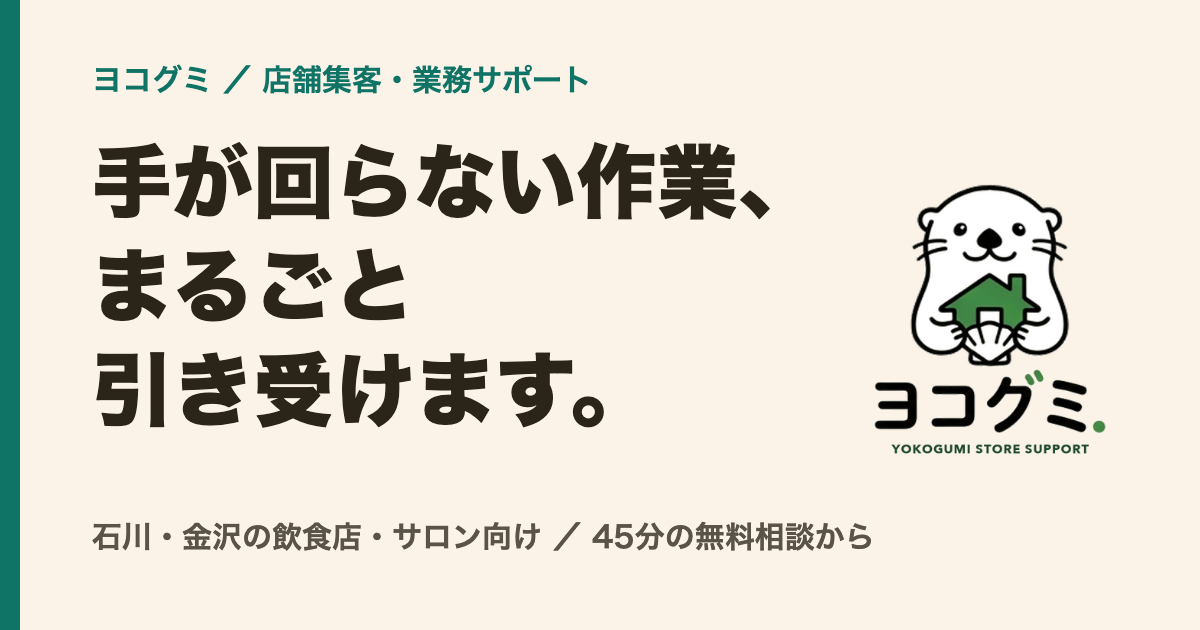
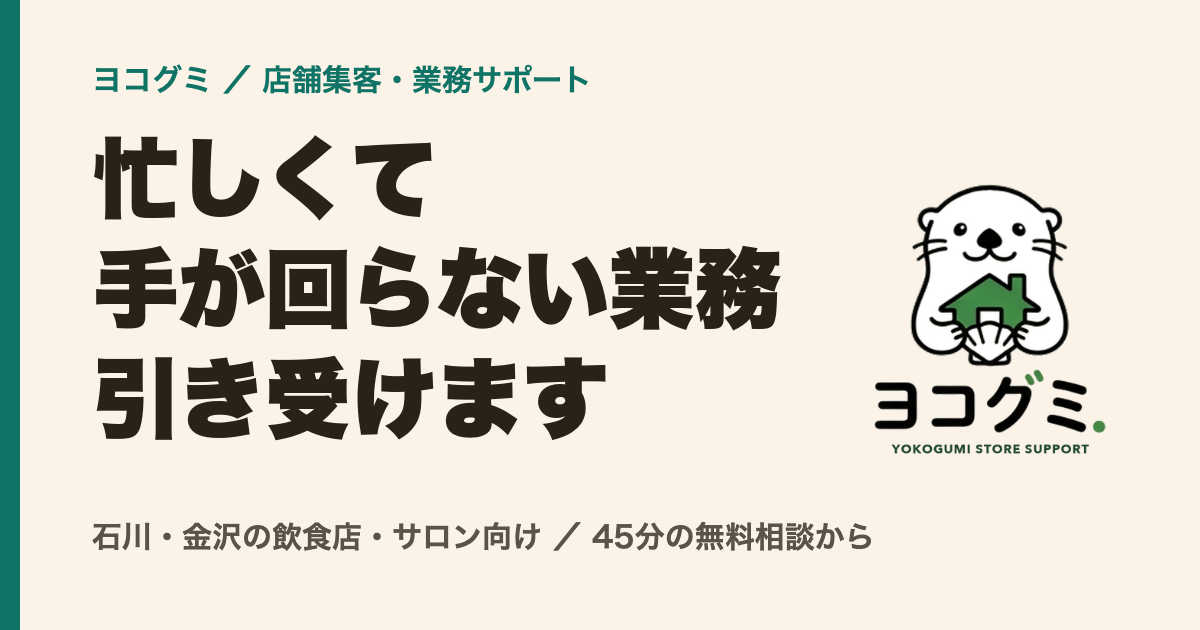
Add files via upload

Changed region(s): [[0.0617, 0.3921, 0.6475, 0.6937], [0.0617, 0.2111, 0.6475, 0.3619]]

diff --git a/index.html b/index.html
@@ -10,7 +10,7 @@
 <meta property="og:title" content="ヨコグミ｜店舗集客・業務サポート">
 <meta property="og:description" content="忙しくて手が回らない業務、引き受けます。石川・金沢の飲食店・サロン向け。45分の無料相談から。">
 <meta property="og:url" content="https://yokogumi.github.io/">
-<meta property="og:image" content="https://yokogumi.github.io/assets/img/ogp.png?v=2">
+<meta property="og:image" content="https://yokogumi.github.io/assets/img/ogp.png?v=3">
 <meta property="og:locale" content="ja_JP">
 <meta name="twitter:card" content="summary_large_image">
 <meta name="theme-color" content="#0F6F62">
